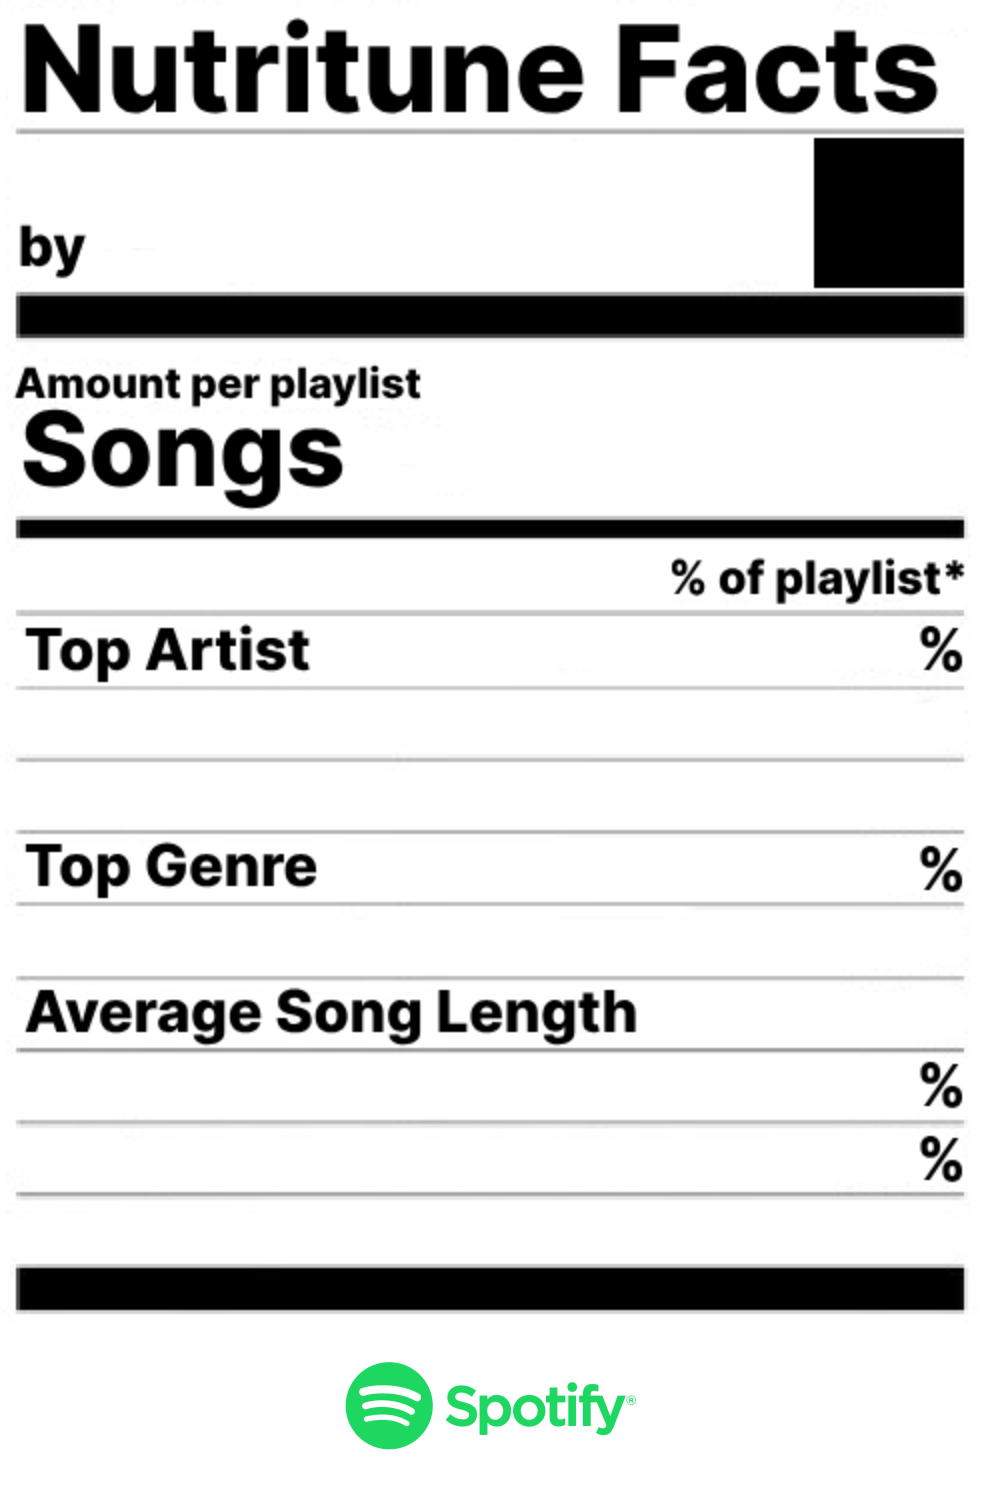
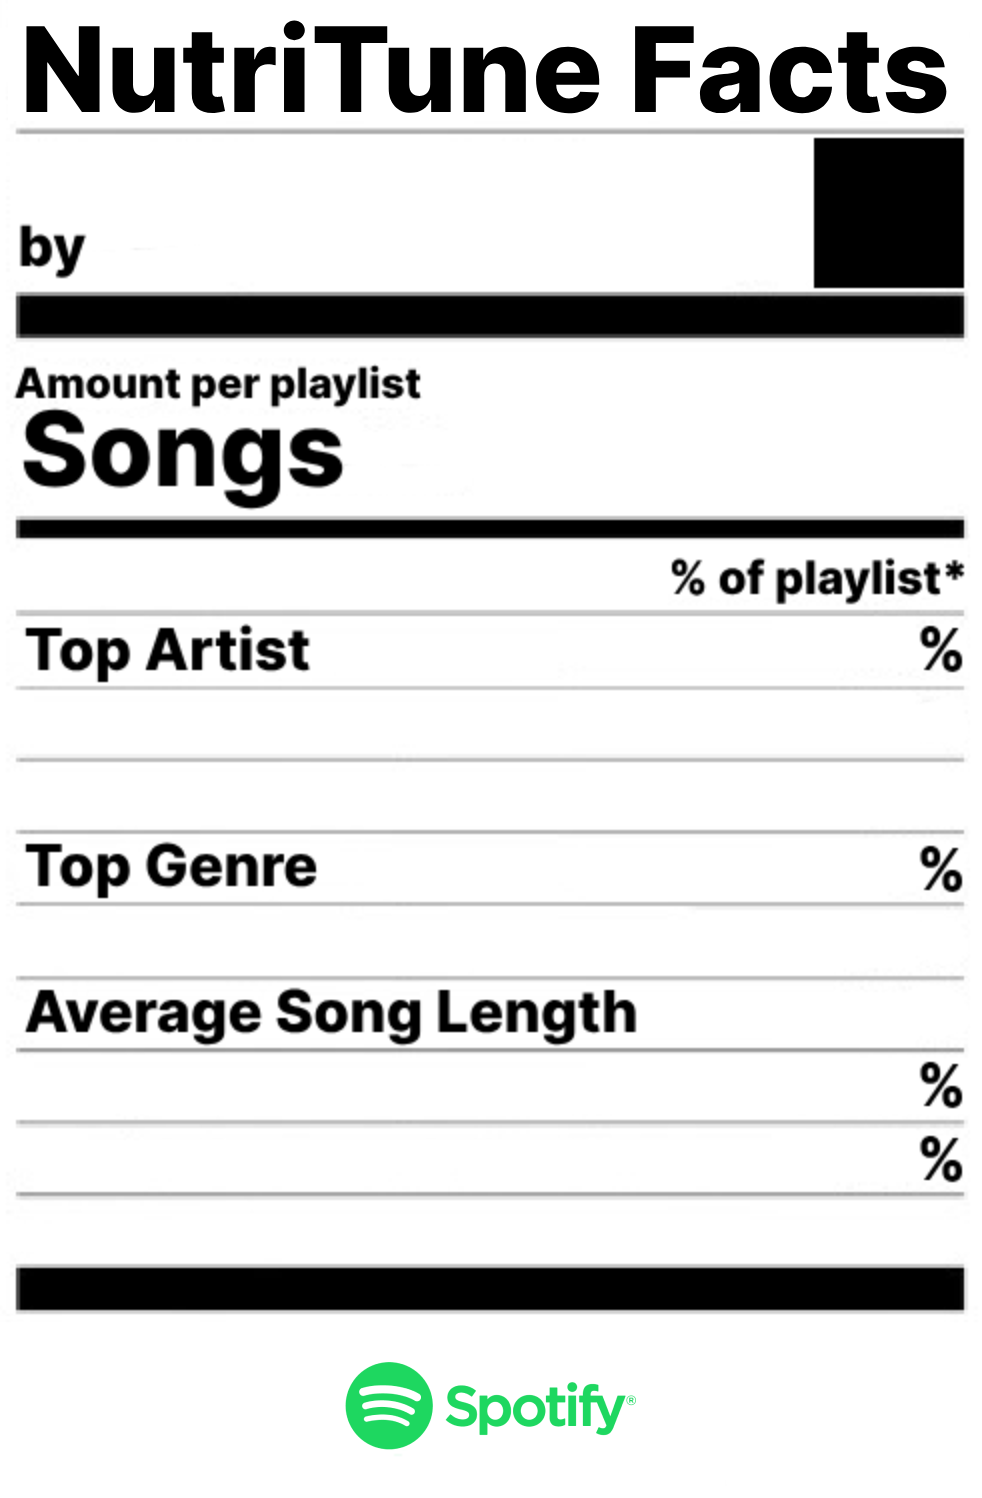
Update README, change naming everywhere to be NutriTune Facts instead of Nutritune, add a download button under the image display

Changed region(s): [[0.0305, 0.0, 0.9776, 0.0921]]

diff --git a/src/components/DataDisplay.tsx b/src/components/DataDisplay.tsx
@@ -1,4 +1,4 @@
-import { useEffect } from "react"
+import { useState, useEffect } from "react"
 import Background from "./../assets/template.png"
 import Font from "./../assets/Inter-SemiBold.ttf"
 
@@ -27,6 +27,7 @@ interface DataDisplayProps{
 }
 
 export default function DataDisplay({ userProfilePicture, durationData, name, topGenre, genrePercentage, owner, topArtist, trackCount, icon }: DataDisplayProps){
+    const [imgSource, setImgSource] = useState(null)
 
     useEffect(() => {
         async function loadFont(){
@@ -61,7 +62,7 @@ export default function DataDisplay({ userProfilePicture, durationData, name, to
             ctx.drawImage(artistIcon, 100, 692, 64, 64)
             ctx.font = "72px Inter, sans-serif"
             ctx.fillStyle = "#1DB954"
-            ctx.fillText(name, 20, 202)
+            ctx.fillText(name, 20, 194)
             ctx.font = "58px Inter, sans-serif"
             if(profilePicture){
                 ctx.drawImage(profilePicture, 100, 211, 72, 72)
@@ -108,15 +109,32 @@ export default function DataDisplay({ userProfilePicture, durationData, name, to
                 ctx.fillText((durationData["shorter"] / (durationData["longer"]+durationData["shorter"]) * 100).toFixed(1), 822, 1183)
             }
 
-            const dataImage: any = document.getElementById("dataImage")
-            dataImage.src = canvas.toDataURL()
+            setImgSource(canvas.toDataURL())
         })
     }, [])
+
+    function saveImage(){
+        let link = document.createElement("a")
+        link.href = imgSource
+        link.download = "image.png"
+        document.body.appendChild(link)
+        link.click()
+        document.body.removeChild(link)
+    }
 
     return(
         <>
             <canvas width="982px" height="1498px">Canvas is not supported</canvas>
-            <img id="dataImage" className="centered"></img>
+            {
+                imgSource ? (
+                    <>
+                        <img id="dataImage" className="centered" src={imgSource}></img>
+                        <a id="downloadButton" className="hoverAnimation" download="image.png" href={imgSource}>Download image</a>
+                    </>
+                ) : (
+                    null
+                )
+            }
         </>
     )
 }

diff --git a/src/components/ExtraInfo.tsx b/src/components/ExtraInfo.tsx
@@ -3,7 +3,7 @@ export default function ExtraInfo(){
         <div className="centered">
             <div className="infoContainer" id="about">
                 <h3 className="centered">About</h3>
-                <p className="centered">With Nutritune Facts for Spotify you can log in with your Spotify account, select a playlist, then see some information about it. The information shown includes playlist song count, top artist, top genre, average song length, etc.</p>
+                <p className="centered">With NutriTune Facts for Spotify you can log in with your Spotify account, select a playlist, then see some information about it. The information shown includes playlist song count, top artist, top genre, average song length, etc.</p>
                 <p className="centered">How it works:</p>
                 <p className="centered">You log in with your Spotify account then get redirected back to this page. From this page you will see a menu to select a playlist. Currently there is a limit and it only shows 50 of your Spotify playlists. You can select a playlist, click "Choose this playlist," then in a few seconds (depending on how long your playlist is), you should see your playlist's information!</p>
             </div>

diff --git a/src/styles.css b/src/styles.css
@@ -9,6 +9,7 @@
     text-align: center;
     -ms-overflow-style: none;
     scrollbar-width: none;
+    justify-content: center;
     &::-webkit-scrollbar{
         display: none
     }
@@ -69,6 +70,23 @@ a.button{
     &:hover{
         background-color: #199e48
     }
+}
+#downloadButton{
+    -webkit-appearance: button;
+    -moz-appearance: button;
+    appearance: button;
+    text-decoration: none;
+    width: auto;
+    height: auto;
+    background-color: var(--black);
+    color: var(--white);
+    user-select: none;
+    font-size: 100%;
+    margin-top: 12px;
+    font-weight: bolder;
+    align-items: center;
+    padding: 8px;
+    border-radius: 16px;
 }
 
 h2{
@@ -174,7 +192,7 @@ h3{
     text-decoration: underline;
 }
 .infoContainer p {
-    max-width: 65%;
+    max-width: 30%;
 }
 .selectButtonHiglihghted{
     outline-style: solid;
@@ -224,5 +242,9 @@ canvas{
     }
     #dataImage{
         outline: transparent
+    }
+    #downloadButton{
+        background-color: var(--white);
+        color: var(--black);
     }
 }

diff --git a/index.html b/index.html
@@ -5,7 +5,7 @@
     <meta http-equiv="X-UA-Compatible" content="IE=edge">
     <meta name="viewport" content="width=device-width, initial-scale=1.0">
     <link href="/dist/main.css" rel="stylesheet">
-    <title>Nutritune Facts</title>
+    <title>NutriTune Facts</title>
 </head>
 <body>
     <div id="root"></div>

diff --git a/src/components/Header.tsx b/src/components/Header.tsx
@@ -1,5 +1,5 @@
 export default function Header(){
     return(
-        <h1 className="centered">Nutritune Facts for Spotify</h1>
+        <h1 className="centered">NutriTune Facts for Spotify</h1>
     )
 }

diff --git a/README.md b/README.md
@@ -1,15 +1,2 @@
-# Nutritune Facts for Spotify
-A website that shows the user information about their playlists.
-
-### To-do list
-- [x] ~~Implement state in index.js~~
-- [x] ~~Fix bugs with the refreshing of the access token~~
-- [ ] Validate that the user account/name details haven't changed whenever they log in
-- [x] ~~Add support for playlists with no cover image (aka no songs on them)~~ Not show playlists with no songs on them
-- [x] ~~Add error checking for pretty much every request~~
-- [ ] Eventually migrate index.js to TypeScript
-- [ ] Make sure everything complies with [Spotify's design guidelines](https://developer.spotify.com/documentation/design)
-- [x] ~~Change the font on the canvas to Inter so it matches the template~~
-- [x] ~~Get all the positioning right on the canvas and make sure there's enough space for all the text~~
-- [ ] Test the whole genre system
-- [ ] (Very low priority and maybe not necessary) Improve text quality on the template
+# Nutri-tune Facts for Spotify
+Nutri-tune Facts For Spotify is a web app designed to allow a user to sign in with their Spotify account and show some information about their plalist in a fun way.
